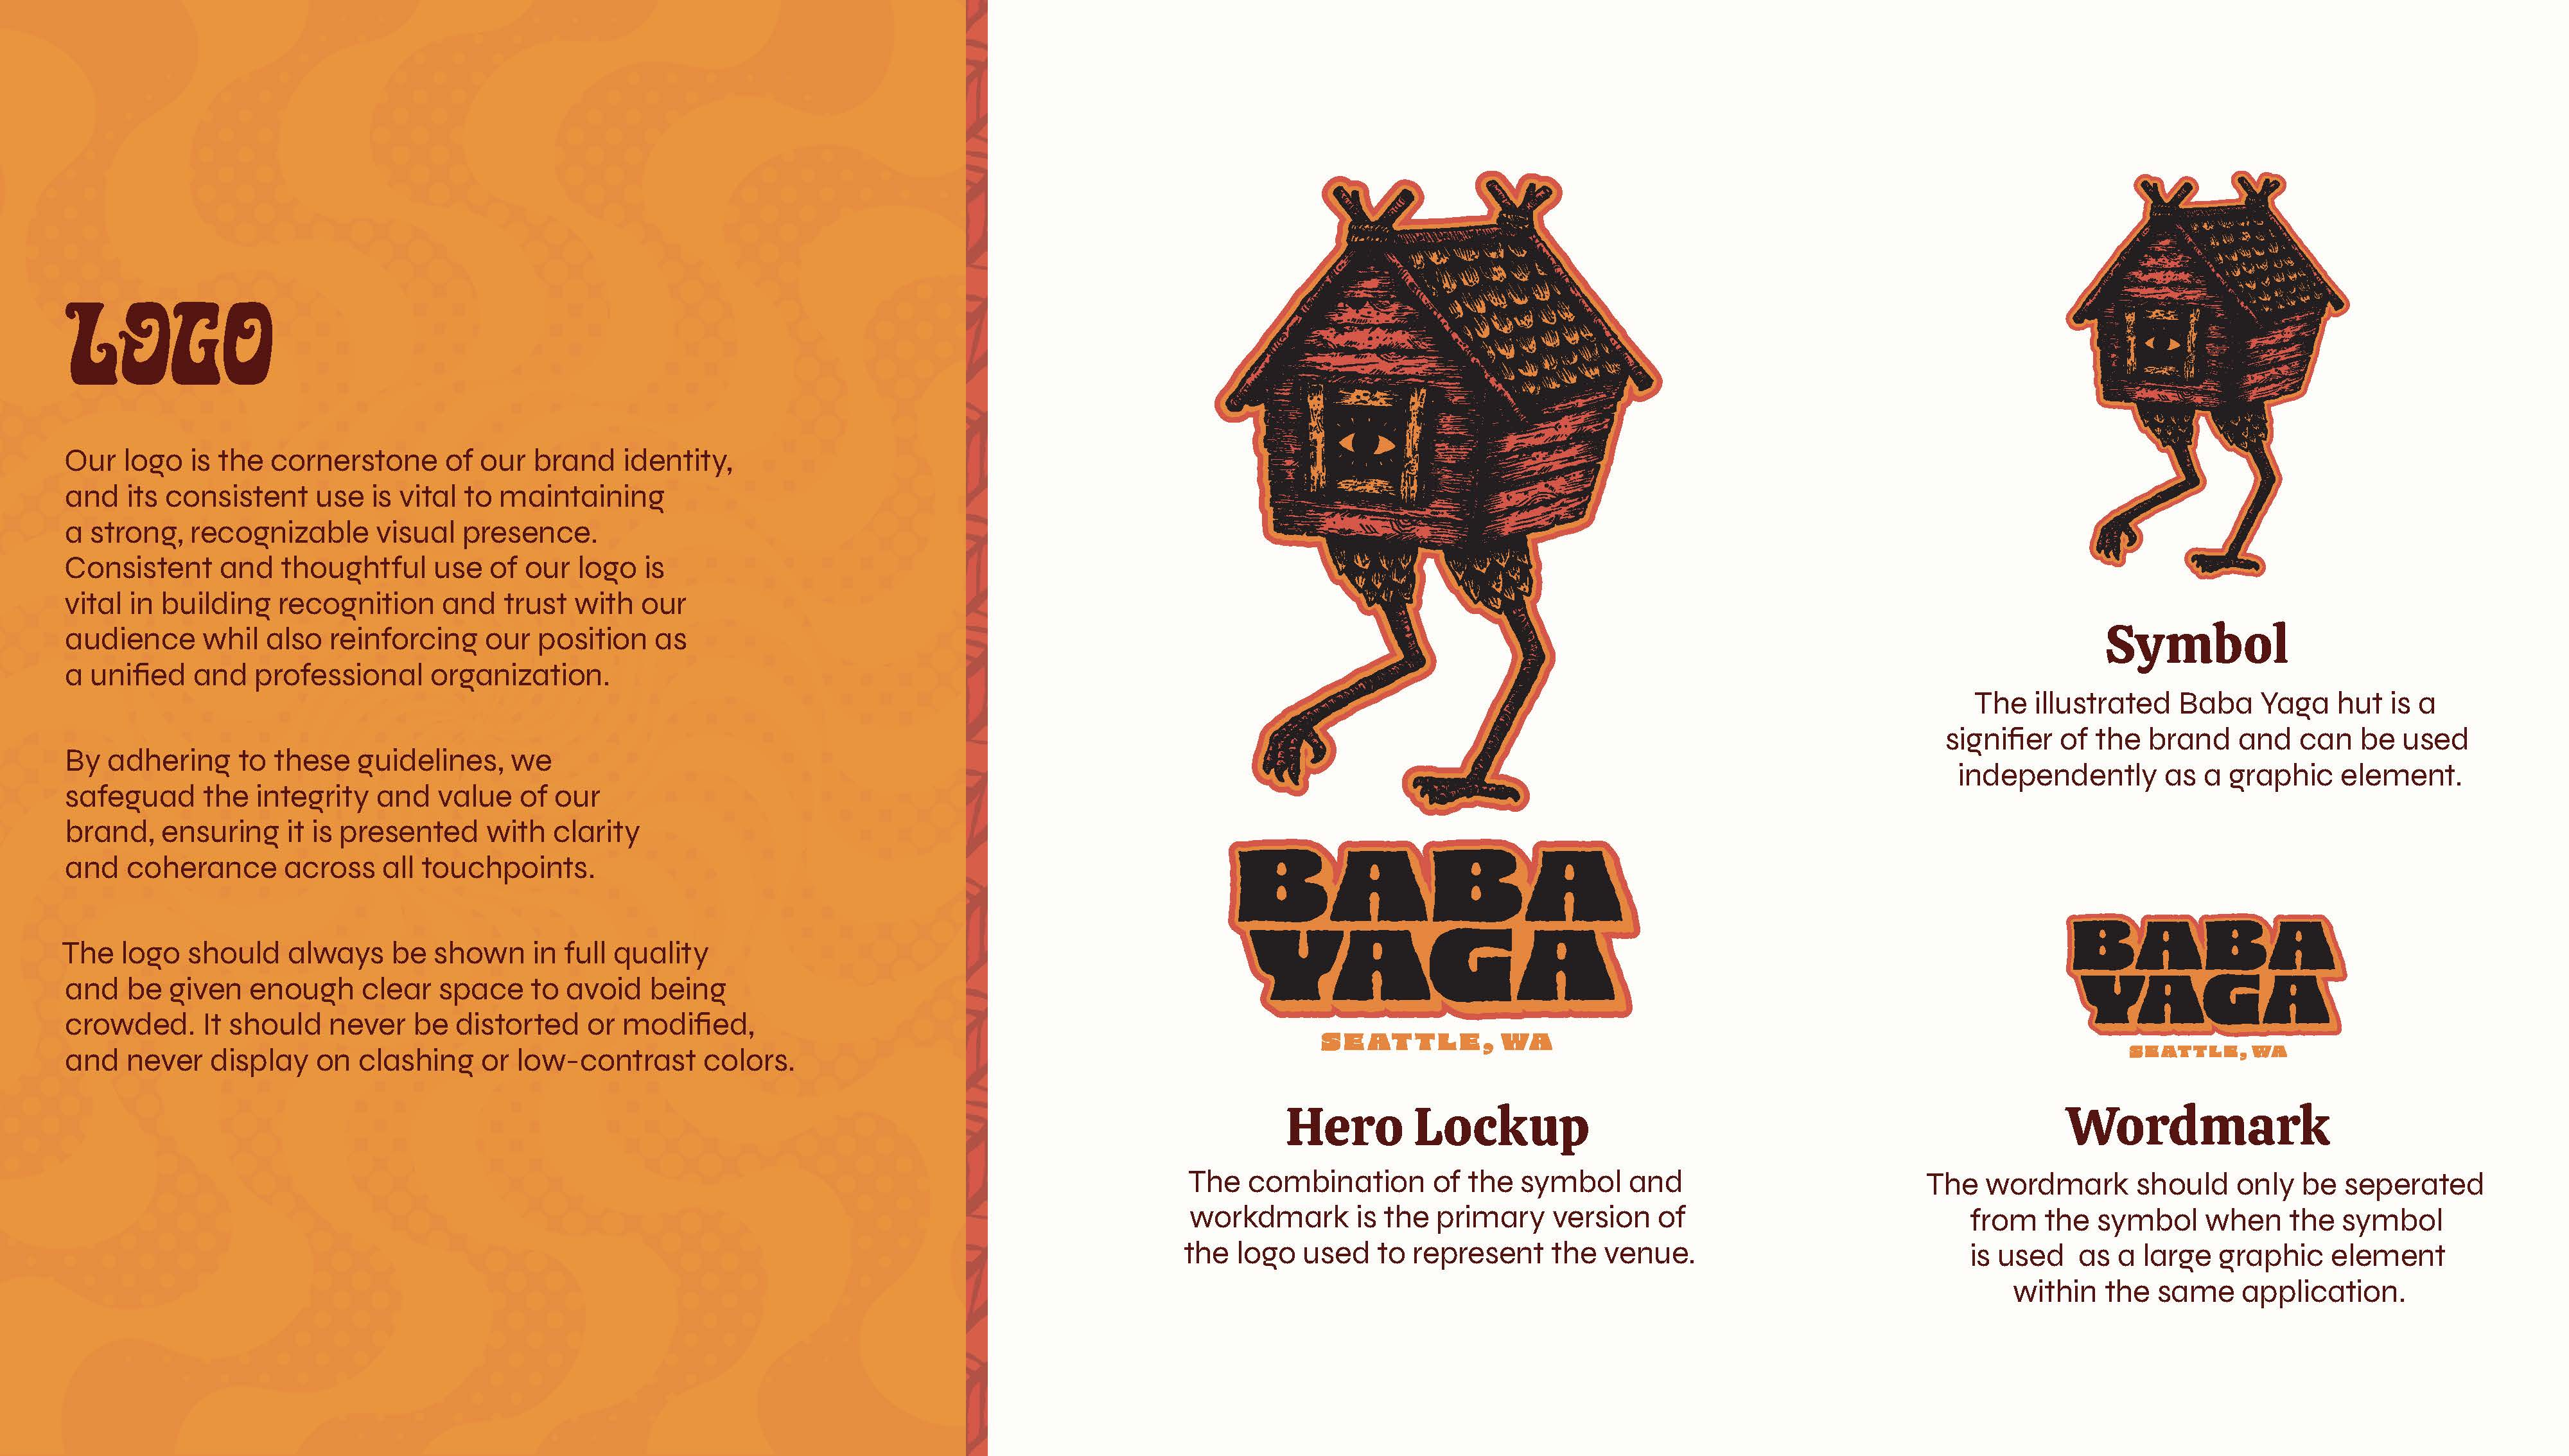
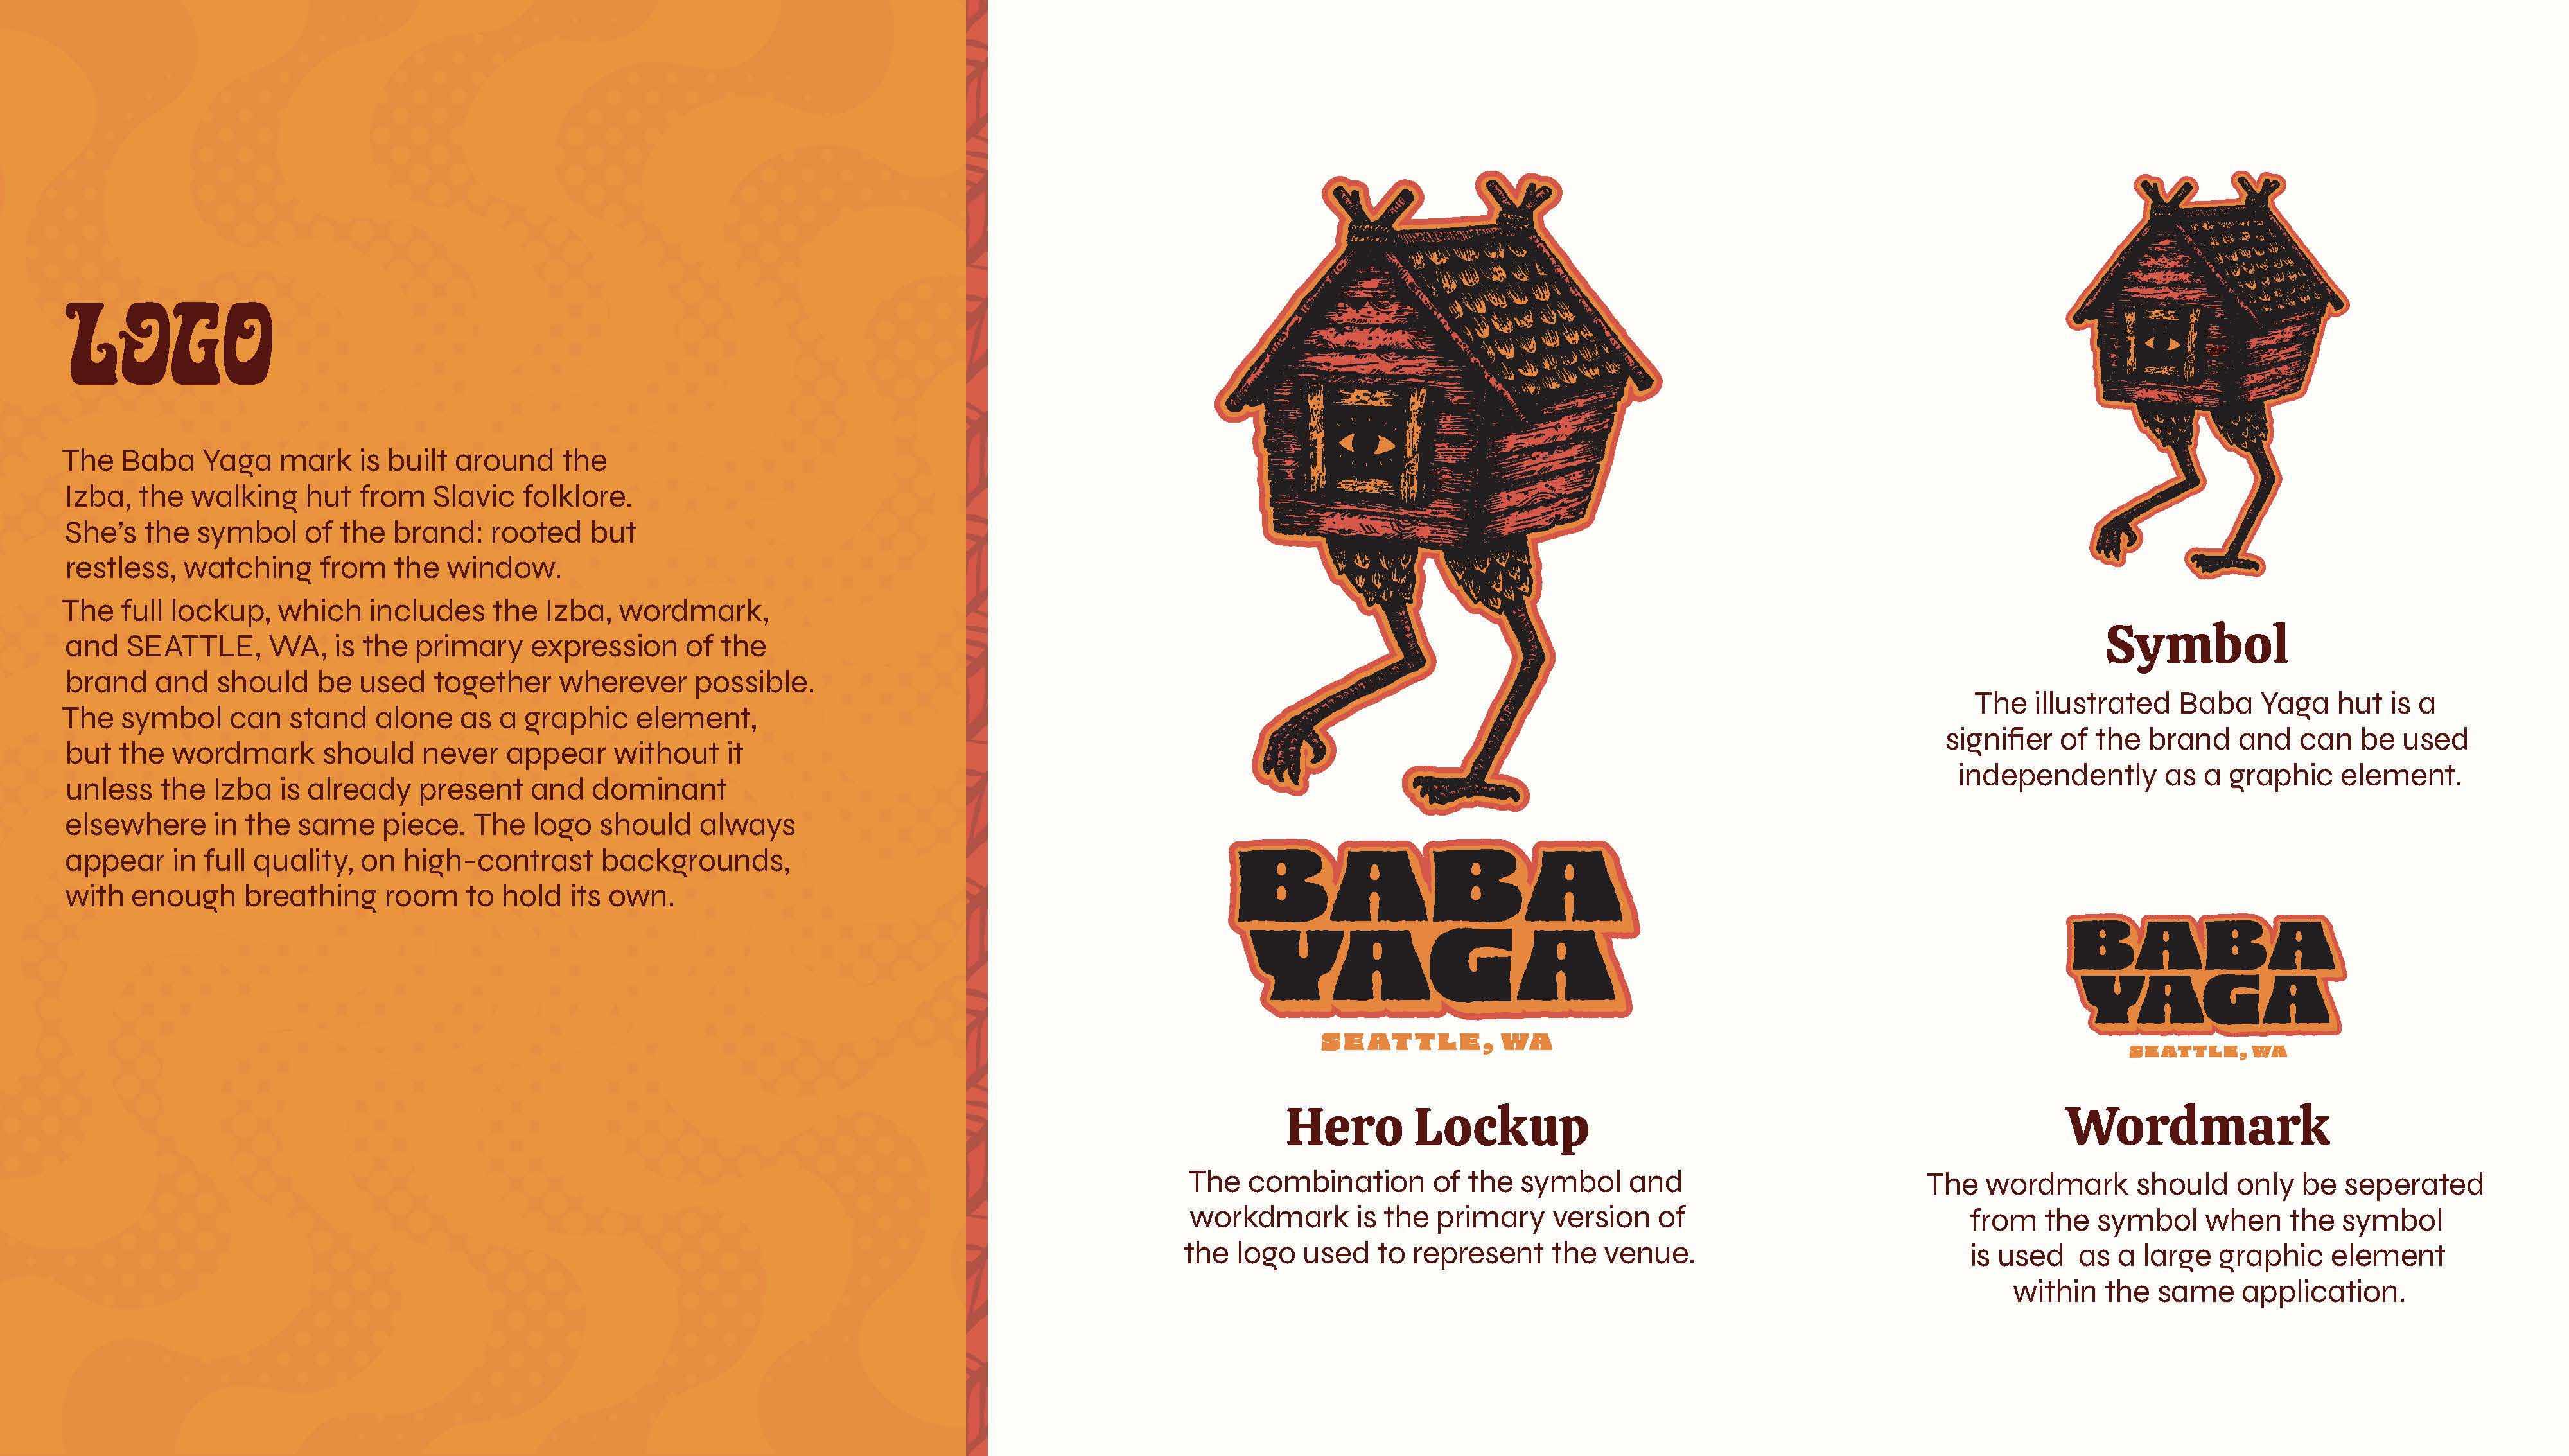
update Baba Yaga project images

Changed region(s): [[0.0, 0.3088, 0.3125, 0.7411]]

diff --git a/index.html b/index.html
@@ -641,7 +641,7 @@
 
         <a href="pages/baba-yaga.html" class="image-grid__card" data-category="design" data-project="baba-yaga">
           <div class="image-grid__img-wrap" style="background:#1A0F08;">
-            <img src="images/baba-yaga/BabaYaga_Page_01.jpg" alt="Baba Yaga brand guide cover" style="width:100%;height:100%;object-fit:cover;" />
+            <img src="images/baba-yaga/Baba-Thumbnail.jpg" alt="Baba Yaga brand guide cover" style="width:100%;height:100%;object-fit:cover;" />
           </div>
           <div class="image-grid__caption">
             <div class="image-grid__caption-name">Baba Yaga Brand Guide</div>
@@ -778,9 +778,18 @@
         process: { heading: 'Research and Insight', body: 'The challenge of working backwards from an existing brand is that you have to figure out what the rules already are before you can write them down. That meant spending time with their website, social media, and existing materials to find the patterns that were working and understand why. The visual identity had a strong point of view, it just hadn\'t been made explicit yet. The other layer was voice. Getting a brand\'s written tone locked down is often the thing that gets skipped in a guidelines document. For Baba Yaga it felt important to get it right. A bar with that kind of mythology in its name has a specific register to maintain, and giving them language to describe it meant they could move forward with intention rather than instinct alone.' },
         outcome: { heading: 'Solution', body: 'A complete brand guidelines document Baba Yaga can hand to any designer, printer, or collaborator and get consistent results. The project showed me I can jump into the middle of something already in motion, read what\'s there, and build on it without losing the thread. Working with Andrew also confirmed something I already suspected: collaboration across disciplines works best when each person stays in their lane and trusts the other to do the same.' },
         images: [
-          { src: 'images/baba-yaga/BabaYaga_Page_01.jpg', bg: '#1A0F08', caption: 'Brand guide cover' },
-          { src: 'images/baba-yaga/BabaYaga_Page_03.jpg', bg: '#2A1A0D', caption: 'Logo system and lockups' },
-          { src: 'images/baba-yaga/BabaYaga_Page_10.jpg', bg: '#1A0F08', caption: 'Poster templates' }
+          { src: 'images/baba-yaga/BabaYaga_Page_01.jpg', bg: '#1A0F08', caption: 'Brand identity cover' },
+          { src: 'images/baba-yaga/BabaYaga_Page_02.jpg', bg: '#FF9903', caption: 'About the venue — photography and context' },
+          { src: 'images/baba-yaga/BabaYaga_Page_03.jpg', bg: '#FF9903', caption: 'Logo system — hero lockup, symbol, and wordmark' },
+          { src: 'images/baba-yaga/BabaYaga_Page_04.jpg', bg: '#FF9903', caption: 'Typography — Calistoga, Syne, and Star Vintage' },
+          { src: 'images/baba-yaga/BabaYaga_Page_05.jpg', bg: '#FF9903', caption: 'Color palette — primary and secondary system' },
+          { src: 'images/baba-yaga/BabaYaga_Page_06.jpg', bg: '#FF9903', caption: 'Graphics — marbled, spiral, and glitch surface textures' },
+          { src: 'images/baba-yaga/BabaYaga_Page_07.jpg', bg: '#FF9903', caption: 'Icons — hand-drawn venue icon set' },
+          { src: 'images/baba-yaga/BabaYaga_Page_08.jpg', bg: '#FF9903', caption: 'Patterns — herringbone, wood plank, and brick' },
+          { src: 'images/baba-yaga/BabaYaga_Page_09.jpg', bg: '#FF9903', caption: 'Textures — full-bleed structural pattern applications' },
+          { src: 'images/baba-yaga/BabaYaga_Page_10.jpg', bg: '#1A0F08', caption: 'Posters — event poster templates across colorways' },
+          { src: 'images/baba-yaga/BabaYaga_Page_11.jpg', bg: '#1A0F08', caption: 'Calendars — monthly grid and weekly list formats' },
+          { src: 'images/baba-yaga/BabaYaga_Page_12.jpg', bg: '#FF9903', caption: 'Social media — frame templates across three colorways' }
         ],
         category: 'design'
       },